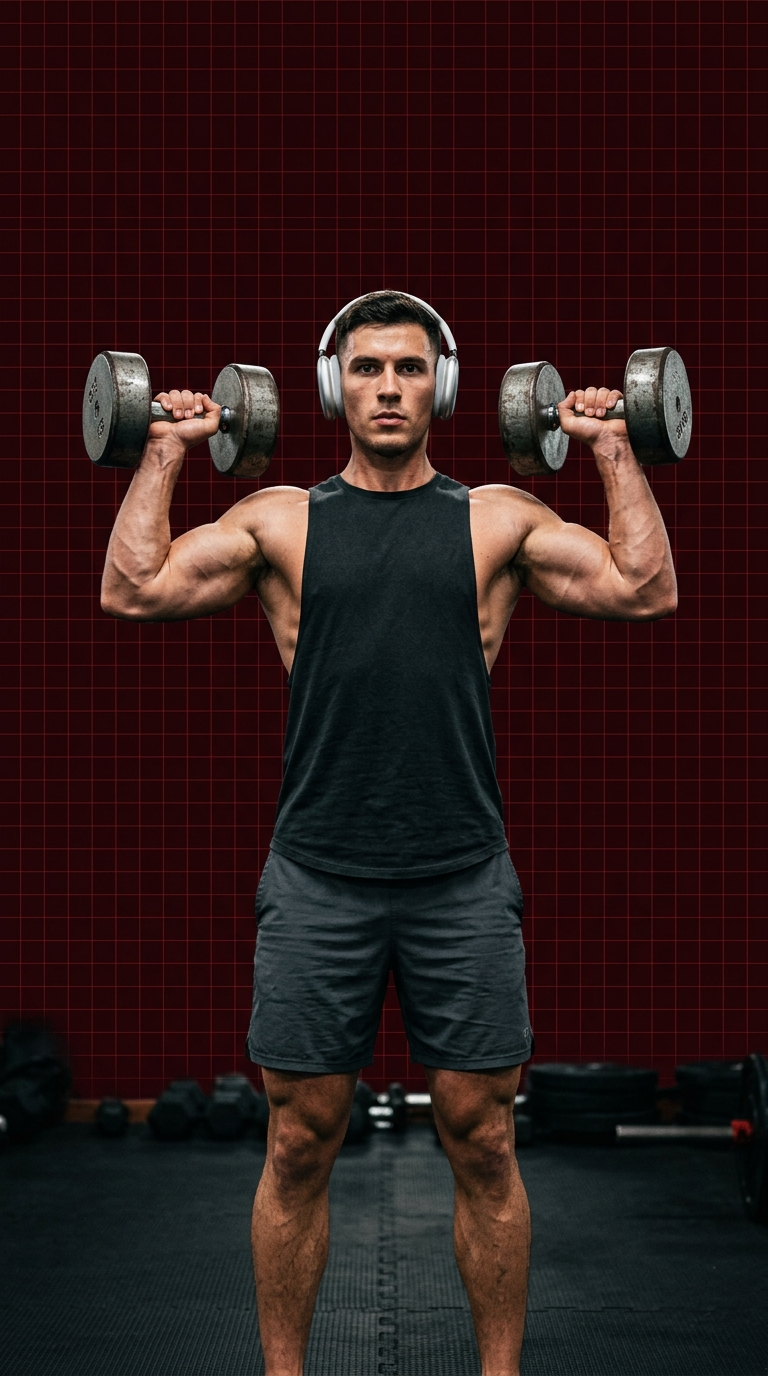
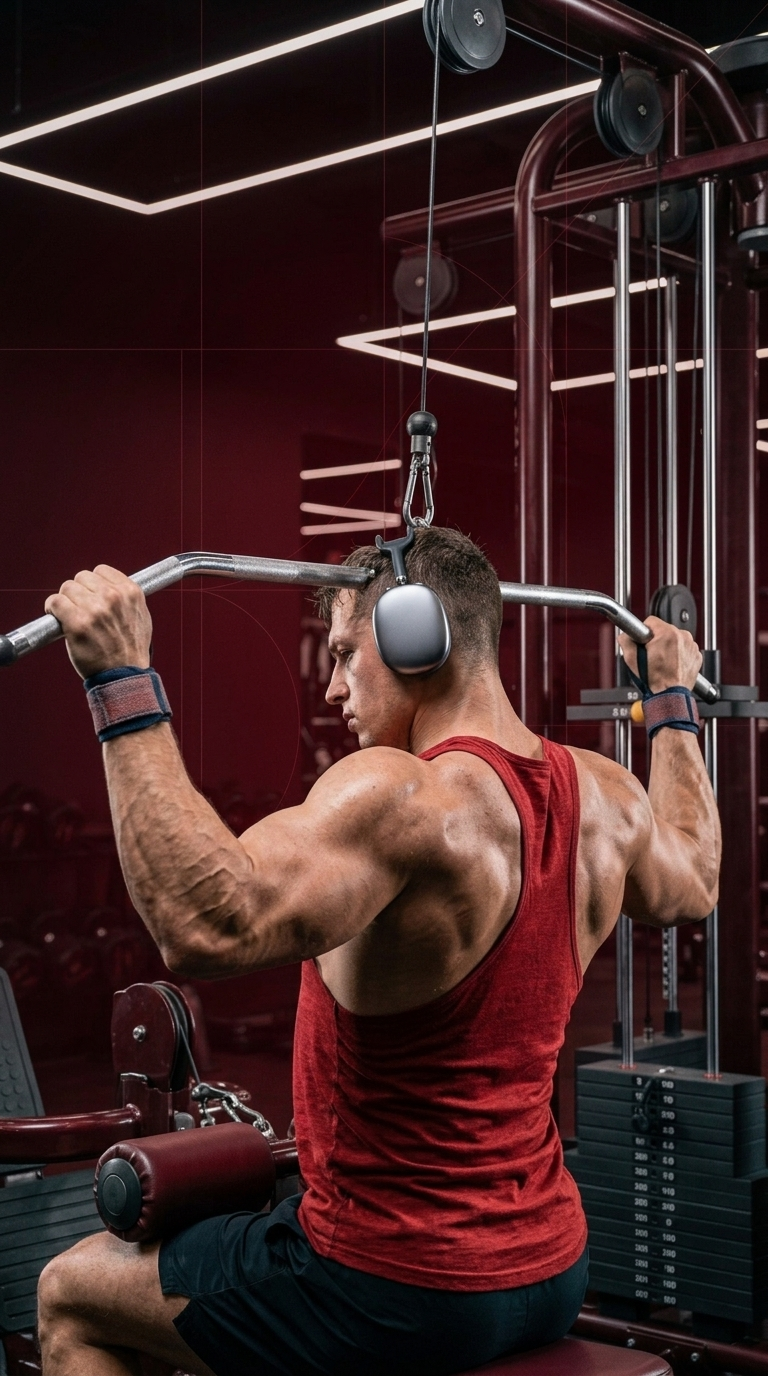
feat: replace 2nd athlete with matching red tank top lat pulldown, add 60fps dual-layer cross-dissolve, Google 1-tap button, and ambient red glow

diff --git a/expo-app/src/screens/AuthScreen.js b/expo-app/src/screens/AuthScreen.js
@@ -61,30 +61,27 @@ export function AuthScreen({
   setPasswordInput
 }) {
   const [bgSlideIdx, setBgSlideIdx] = useState(0);
-  const [heroSlideIdx, setHeroSlideIdx] = useState(0);
-  const fadeAnim = useRef(new Animated.Value(1)).current;
+  const fadeAnim = useRef(new Animated.Value(0)).current; // 0 = Bicep Curl, 1 = Lat Pulldown
+  const [showingSecond, setShowingSecond] = useState(false);
   const [authView, setAuthView] = useState('HERO'); // 'HERO' | 'SIGN_UP' | 'SIGN_IN'
   const [usernameInput, setUsernameInput] = useState('');
   const [isUsernameAvailable, setIsUsernameAvailable] = useState(true);
   const [isCheckingUsername, setIsCheckingUsername] = useState(false);
   const [isGoogleLoading, setIsGoogleLoading] = useState(false);
 
-  // 🔄 Automatic Hero Image Slideshow & Cross-fade Transition Every 4.5s
+  // 🔄 Silky 60FPS Continuous Cross-dissolve Between the 2 Exercises Every 4.5s
   useEffect(() => {
     if (authView !== 'HERO') return;
 
     const interval = setInterval(() => {
-      Animated.timing(fadeAnim, {
-        toValue: 0.05,
-        duration: 350,
-        useNativeDriver: true
-      }).start(() => {
-        setHeroSlideIdx((prev) => (prev + 1) % HERO_ATHLETE_SLIDES.length);
+      setShowingSecond((prev) => {
+        const nextState = !prev;
         Animated.timing(fadeAnim, {
-          toValue: 1,
-          duration: 450,
+          toValue: nextState ? 1 : 0,
+          duration: 900,
           useNativeDriver: true
         }).start();
+        return nextState;
       });
     }, 4500);
 
@@ -92,17 +89,14 @@ export function AuthScreen({
   }, [authView]);
 
   const handleHeroTap = () => {
-    Animated.timing(fadeAnim, {
-      toValue: 0.05,
-      duration: 200,
-      useNativeDriver: true
-    }).start(() => {
-      setHeroSlideIdx((prev) => (prev + 1) % HERO_ATHLETE_SLIDES.length);
+    setShowingSecond((prev) => {
+      const nextState = !prev;
       Animated.timing(fadeAnim, {
-        toValue: 1,
-        duration: 300,
+        toValue: nextState ? 1 : 0,
+        duration: 500,
         useNativeDriver: true
       }).start();
+      return nextState;
     });
   };
 
@@ -532,39 +526,47 @@ export function AuthScreen({
   }
 
   // ==========================================
-  // 🌟 CRIMSON ATHLETE HERO AUTH SCREEN (Matches Reference & Multi-Exercise Slideshow)
+  // 🌟 CRIMSON ATHLETE HERO AUTH SCREEN (Matches Reference & 60FPS Cross-fade)
   // ==========================================
-  const currentHeroSlide = HERO_ATHLETE_SLIDES[heroSlideIdx];
-
   return (
     <View style={styles.crimsonAuthContainer}>
       <StatusBar barStyle="light-content" translucent backgroundColor="transparent" />
 
-      {/* 1. Photorealistic Full-Screen Athlete Hero Background with Cross-fade Animation */}
-      <TouchableWithoutFeedback onPress={handleHeroTap}>
-        <Animated.Image
-          source={currentHeroSlide.image}
-          style={[styles.athleteHeroBgImg, { opacity: fadeAnim }]}
-          resizeMode="cover"
-        />
-      </TouchableWithoutFeedback>
+      {/* 1. Dual-Layer 60FPS Hardware-Accelerated Cross-fade Images */}
+      {/* Base Layer: Barbell Bicep Curl */}
+      <Image
+        source={require('../../assets/athlete_hero.jpg')}
+        style={styles.athleteHeroBgImg}
+        resizeMode="cover"
+      />
+
+      {/* Overlay Layer: Matching Lat Pulldown (Smooth Opacity Cross-dissolve) */}
+      <Animated.Image
+        source={require('../../assets/athlete_hero_2.jpg')}
+        style={[styles.athleteHeroBgImg, { opacity: fadeAnim }]}
+        resizeMode="cover"
+      />
 
       {/* 2. Atmospheric Crimson Grid & Gradient Shadow Vignette */}
       <View pointerEvents="none" style={styles.crimsonAtmosphericOverlay} />
 
+      {/* 3. 🔥 Ambient Red/Crimson Glow Highlights */}
+      <View pointerEvents="none" style={styles.redAmbientGlowBottom} />
+      <View pointerEvents="none" style={styles.redAmbientGlowCorner} />
+
       <SafeAreaView style={{ flex: 1 }}>
         <View style={styles.crimsonHeroContainer}>
           {/* Floating Feature Badge 1: Top Right */}
-          <Animated.View style={[styles.floatingBadgeRight, { opacity: fadeAnim }]}>
-            <Text style={styles.featureBadgeValue}>{currentHeroSlide.badgeRight.top}</Text>
-            <Text style={styles.featureBadgeLabel}>{currentHeroSlide.badgeRight.sub}</Text>
-          </Animated.View>
+          <View style={styles.floatingBadgeRight}>
+            <Text style={styles.featureBadgeValue}>Personalized</Text>
+            <Text style={styles.featureBadgeLabel}>Plans</Text>
+          </View>
 
           {/* Floating Feature Badge 2: Lower Left */}
-          <Animated.View style={[styles.floatingBadgeLeft, { opacity: fadeAnim }]}>
-            <Text style={styles.featureBadgeValue}>{currentHeroSlide.badgeLeft.top}</Text>
-            <Text style={styles.featureBadgeLabel}>{currentHeroSlide.badgeLeft.sub}</Text>
-          </Animated.View>
+          <View style={styles.floatingBadgeLeft}>
+            <Text style={styles.featureBadgeValue}>250+</Text>
+            <Text style={styles.featureBadgeLabel}>Exercises</Text>
+          </View>
 
           {/* Bottom Branding & Action Sheet */}
           <View style={styles.bottomBrandContainer}>
@@ -582,25 +584,42 @@ export function AuthScreen({
               Your AI coach for smarter training{'\n'}and real progress.
             </Text>
 
-            {/* Action Buttons */}
+            {/* Optimized High-Converting Button Stack */}
             <View style={styles.heroButtonStack}>
-              {/* Primary: Log In */}
+              {/* Primary 1-Tap Action: Continue with Google */}
               <TouchableOpacity
-                style={styles.heroLogInBtn}
+                style={styles.heroGooglePillBtn}
+                activeOpacity={0.85}
+                onPress={handleGoogleSignInPress}
+                disabled={isGoogleLoading}
+              >
+                {isGoogleLoading ? (
+                  <ActivityIndicator size="small" color="#18181B" />
+                ) : (
+                  <>
+                    <GoogleIcon />
+                    <Text style={styles.heroGooglePillBtnText}>Continue with Google</Text>
+                  </>
+                )}
+              </TouchableOpacity>
+
+              {/* Secondary Action: Sign in with Email */}
+              <TouchableOpacity
+                style={styles.heroEmailPillBtn}
                 activeOpacity={0.85}
                 onPress={() => setAuthView('SIGN_IN')}
               >
-                <Text style={styles.heroLogInBtnText}>Log In</Text>
+                <Mail size={16} color="#FFFFFF" />
+                <Text style={styles.heroEmailPillBtnText}>Sign in with Email</Text>
               </TouchableOpacity>
 
-              {/* Secondary: Create an Account */}
-              <TouchableOpacity
-                style={styles.heroCreateAccountBtn}
-                activeOpacity={0.85}
-                onPress={() => setAuthView('SIGN_UP')}
-              >
-                <Text style={styles.heroCreateAccountBtnText}>Create an Account</Text>
-              </TouchableOpacity>
+              {/* Tertiary Action: Create an Account Link */}
+              <View style={styles.heroFooterRow}>
+                <Text style={styles.heroFooterText}>New to LIFT? </Text>
+                <TouchableOpacity onPress={() => setAuthView('SIGN_UP')}>
+                  <Text style={styles.heroFooterLink}>Create an Account</Text>
+                </TouchableOpacity>
+              </View>
             </View>
           </View>
         </View>
@@ -624,13 +643,42 @@ const styles = StyleSheet.create({
   },
   crimsonAtmosphericOverlay: {
     ...StyleSheet.absoluteFillObject,
-    backgroundColor: 'rgba(21, 3, 5, 0.38)'
+    backgroundColor: 'rgba(21, 3, 5, 0.35)'
+  },
+  redAmbientGlowBottom: {
+    position: 'absolute',
+    bottom: -60,
+    left: '10%',
+    right: '10%',
+    height: 180,
+    backgroundColor: '#DC2626',
+    opacity: 0.28,
+    borderRadius: 100,
+    transform: [{ scaleX: 1.8 }],
+    shadowColor: '#EF4444',
+    shadowOffset: { width: 0, height: 0 },
+    shadowOpacity: 0.9,
+    shadowRadius: 50
+  },
+  redAmbientGlowCorner: {
+    position: 'absolute',
+    bottom: 120,
+    right: -40,
+    width: 140,
+    height: 140,
+    backgroundColor: '#991B1B',
+    opacity: 0.22,
+    borderRadius: 70,
+    shadowColor: '#DC2626',
+    shadowOffset: { width: 0, height: 0 },
+    shadowOpacity: 0.8,
+    shadowRadius: 40
   },
   crimsonHeroContainer: {
     flex: 1,
     justifyContent: 'flex-end',
     paddingHorizontal: 24,
-    paddingBottom: 28,
+    paddingBottom: 24,
     position: 'relative'
   },
   floatingBadgeRight: {
@@ -662,7 +710,7 @@ const styles = StyleSheet.create({
   },
   brandHeaderRow: {
     alignItems: 'flex-start',
-    marginBottom: 8
+    marginBottom: 6
   },
   heroLiftLogo: {
     width: 145,
@@ -673,45 +721,66 @@ const styles = StyleSheet.create({
     fontSize: 15,
     fontWeight: '400',
     lineHeight: 21,
-    marginBottom: 24,
+    marginBottom: 20,
     opacity: 0.95
   },
   heroButtonStack: {
     width: '100%',
-    gap: 12
+    gap: 10
   },
-  heroLogInBtn: {
+  heroGooglePillBtn: {
     width: '100%',
     height: 52,
     borderRadius: 26,
     backgroundColor: '#EDE7E6',
+    flexDirection: 'row',
     justifyContent: 'center',
     alignItems: 'center',
+    gap: 10,
     shadowColor: '#000',
     shadowOffset: { width: 0, height: 4 },
     shadowOpacity: 0.25,
     shadowRadius: 6,
     elevation: 3
   },
-  heroLogInBtnText: {
+  heroGooglePillBtnText: {
     color: '#18181B',
     fontSize: 15,
     fontWeight: '800'
   },
-  heroCreateAccountBtn: {
+  heroEmailPillBtn: {
     width: '100%',
     height: 52,
     borderRadius: 26,
     backgroundColor: 'rgba(255, 255, 255, 0.08)',
     borderWidth: 1,
     borderColor: 'rgba(255, 255, 255, 0.18)',
+    flexDirection: 'row',
     justifyContent: 'center',
-    alignItems: 'center'
+    alignItems: 'center',
+    gap: 8
   },
-  heroCreateAccountBtnText: {
+  heroEmailPillBtnText: {
     color: '#FFFFFF',
     fontSize: 15,
     fontWeight: '700'
+  },
+  heroFooterRow: {
+    flexDirection: 'row',
+    justifyContent: 'center',
+    alignItems: 'center',
+    marginTop: 6
+  },
+  heroFooterText: {
+    color: '#A1A1AA',
+    fontSize: 13,
+    fontWeight: '500'
+  },
+  heroFooterLink: {
+    color: '#FFFFFF',
+    fontSize: 13,
+    fontWeight: '800',
+    textDecorationLine: 'underline'
   },
 
   // 📝 Full-Screen Sign Up & Sign In Styles
